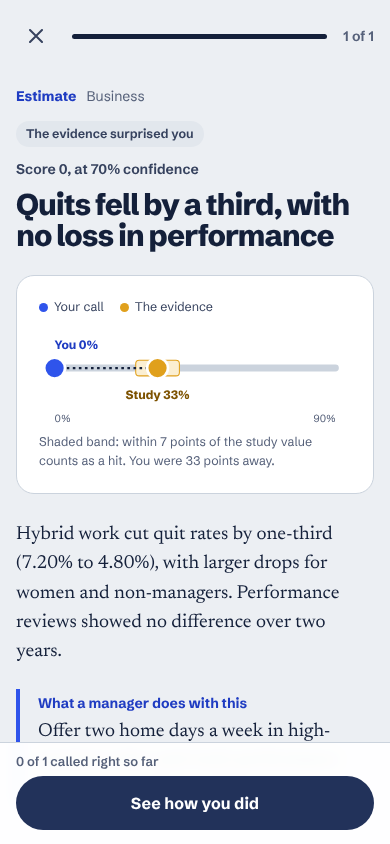
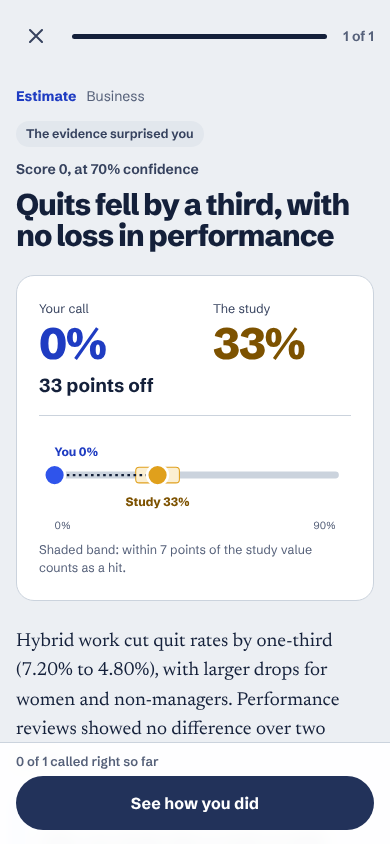
Iteration 15: numeric reveal head
Claude-Session: https://claude.ai/code/session_01Xbk2QxKBDV9apN9R2cwE5q

Changed region(s): [[0.0308, 0.3389, 0.8615, 0.8934], [0.8, 0.4929, 0.8615, 0.5237]]

diff --git a/index.html b/index.html
@@ -559,6 +559,15 @@ input[type=range].untouched::-moz-range-thumb{opacity:.4}
   .reveal .reveal-title{max-width:16ch}
   .focus:has(.reveal) .actionbar-in{max-width:1240px}
 }
+
+/* numeric reveal: the two numbers are the moment */
+.gap-head{display:grid;grid-template-columns:auto auto 1fr;align-items:end;gap:6px 36px;margin:2px 0 14px;padding-bottom:16px;border-bottom:1px solid var(--rule)}
+.gh-cell span{display:block;font-size:var(--t7);color:var(--ink-2);margin-bottom:4px}
+.gh-cell b{display:block;font-size:clamp(44px,4.6vw,68px);line-height:.95;font-weight:800;letter-spacing:-.04em}
+.gh-you{color:#1f3cc2}.gh-ev{color:#7d5200}
+.gh-gap{margin:0;justify-self:end;font-weight:700;font-size:var(--t4);color:var(--ink)}
+.gap:has(.gap-head) .gap-legend{display:none}
+@media (max-width:520px){.gap-head{grid-template-columns:1fr 1fr}.gh-gap{grid-column:1/-1;justify-self:start}}
 </style></head>
 <body>
 <header class="bar"><div class="bar-in"><a class="brand" href="#" data-home="1" aria-label="The Human Variable, home"><span id="brand-glyph"></span>The Human Variable</a>
@@ -996,8 +1005,8 @@ function gapAxis({ min, max, unit = '%', you, ev, band, evLabel = 'Evidence', id
 
 function gapFigure(c, rec) {
   const r = rec.response; let body = '', cap = '';
-  if (c.format === 'estimate') { const e = c.estimate; body = gapAxis({ min: e.min, max: e.max, unit: e.unit ?? '%', you: r, ev: e.target, band: e.tolerance, evLabel: 'Study' }); const u = (e.unit ?? '%') === '%' ? ' points' : e.unit; cap = `Shaded band: within ${e.tolerance}${u} of the study value counts as a hit. You were ${rec.detail.gap}${u} away.` }
-  else if (c.format === 'forecast') { body = `<p class="gap-claim">“${esc(c.forecast.claim)}”</p>` + gapAxis({ min: 0, max: 100, you: r, ev: c.forecast.truth ? 100 : 0, evText: c.forecast.truth ? 'Claim true' : 'Claim false', fmt: x => x + '%' }); cap = `A confident correct call earns 100, saying 50% earns 50, and a confident miss goes below zero.` }
+  if (c.format === 'estimate') { const e = c.estimate; const u = (e.unit ?? '%') === '%' ? ' points' : e.unit, f = x => x + (e.unit ?? '%'); body = gapHead(f(r), f(e.target), rec.detail.gap <= e.tolerance ? 'Inside the band' : `${rec.detail.gap}${u} off`) + gapAxis({ min: e.min, max: e.max, unit: e.unit ?? '%', you: r, ev: e.target, band: e.tolerance, evLabel: 'Study' }); cap = `Shaded band: within ${e.tolerance}${u} of the study value counts as a hit.` }
+  else if (c.format === 'forecast') { body = gapHead(r + '%', c.forecast.truth ? 'True' : 'False', `Score ${pct(rec.score)}`, 'You gave it', 'The claim') + `<p class="gap-claim">“${esc(c.forecast.claim)}”</p>` + gapAxis({ min: 0, max: 100, you: r, ev: c.forecast.truth ? 100 : 0, evText: c.forecast.truth ? 'Claim true' : 'Claim false', fmt: x => x + '%' }); cap = `A confident correct call earns 100, saying 50% earns 50, and a confident miss goes below zero.` }
   else if (c.format === 'rank') {
     const truth = c.rankAnswer, ties = c.rankTies || [];
     const tied = (a, b) => ties.some(t => t.includes(a) && t.includes(b));
@@ -1016,6 +1025,10 @@ function gapFigure(c, rec) {
   else if (c.chart) { body = bars(c.chart); cap = c.chart.note }
   else { body = `<p class="big-stat">${rec.correct ? 'Match' : rec.score > 0 ? 'Partial' : 'Miss'}</p>`; cap = 'Blue marks your call, amber the evidence, in the options on the left.' }
   return `<figure class="gap" aria-labelledby="gap-h"><figcaption class="sr-only" id="gap-h">Your call against the evidence</figcaption>${c.format === 'allocate' ? '<div class="gap-legend" aria-hidden="true"><span><i class="dot dot-you"></i>Your points</span><span><span class="tag tag-ev">Worked best</span> marks the study’s answer</span></div>' : c.chart && ['choice', 'causal', 'multi'].includes(c.format) ? '<div class="gap-legend" aria-hidden="true"><span>Study results</span><span><i class="dot dot-ev"></i>The result the question asks about</span></div>' : '<div class="gap-legend" aria-hidden="true"><span><i class="dot dot-you"></i>Your call</span><span><i class="dot dot-ev"></i>The evidence</span></div>'}${['choice', 'causal', 'multi'].includes(c.format) && !c.chart ? instrument(c) : body}<p class="gap-caption">${['choice', 'causal', 'multi'].includes(c.format) && !c.chart ? 'Blue marks your call, amber the evidence.' : cap}</p>${['choice', 'causal', 'multi'].includes(c.format) && c.chart ? `<div class="opts-recap">${instrument(c)}</div>` : ''}</figure>`;
+}
+// The signature moment of a numeric reveal: your number against the study's, large, with the gap between them.
+function gapHead(you, ev, gap, youLab = 'Your call', evLab = 'The study') {
+  return `<div class="gap-head"><div class="gh-cell"><span>${esc(youLab)}</span><b class="num gh-you">${esc(you)}</b></div><div class="gh-cell"><span>${esc(evLab)}</span><b class="num gh-ev">${esc(ev)}</b></div><p class="gh-gap">${esc(gap)}</p></div>`;
 }
 function short(s, n) { s = String(s); return s.length > n ? s.slice(0, n - 1) + '…' : s }
 function bars(ch) {

diff --git a/src/app.js b/src/app.js
@@ -269,8 +269,8 @@ function gapAxis({ min, max, unit = '%', you, ev, band, evLabel = 'Evidence', id
 
 function gapFigure(c, rec) {
   const r = rec.response; let body = '', cap = '';
-  if (c.format === 'estimate') { const e = c.estimate; body = gapAxis({ min: e.min, max: e.max, unit: e.unit ?? '%', you: r, ev: e.target, band: e.tolerance, evLabel: 'Study' }); const u = (e.unit ?? '%') === '%' ? ' points' : e.unit; cap = `Shaded band: within ${e.tolerance}${u} of the study value counts as a hit. You were ${rec.detail.gap}${u} away.` }
-  else if (c.format === 'forecast') { body = `<p class="gap-claim">“${esc(c.forecast.claim)}”</p>` + gapAxis({ min: 0, max: 100, you: r, ev: c.forecast.truth ? 100 : 0, evText: c.forecast.truth ? 'Claim true' : 'Claim false', fmt: x => x + '%' }); cap = `A confident correct call earns 100, saying 50% earns 50, and a confident miss goes below zero.` }
+  if (c.format === 'estimate') { const e = c.estimate; const u = (e.unit ?? '%') === '%' ? ' points' : e.unit, f = x => x + (e.unit ?? '%'); body = gapHead(f(r), f(e.target), rec.detail.gap <= e.tolerance ? 'Inside the band' : `${rec.detail.gap}${u} off`) + gapAxis({ min: e.min, max: e.max, unit: e.unit ?? '%', you: r, ev: e.target, band: e.tolerance, evLabel: 'Study' }); cap = `Shaded band: within ${e.tolerance}${u} of the study value counts as a hit.` }
+  else if (c.format === 'forecast') { body = gapHead(r + '%', c.forecast.truth ? 'True' : 'False', `Score ${pct(rec.score)}`, 'You gave it', 'The claim') + `<p class="gap-claim">“${esc(c.forecast.claim)}”</p>` + gapAxis({ min: 0, max: 100, you: r, ev: c.forecast.truth ? 100 : 0, evText: c.forecast.truth ? 'Claim true' : 'Claim false', fmt: x => x + '%' }); cap = `A confident correct call earns 100, saying 50% earns 50, and a confident miss goes below zero.` }
   else if (c.format === 'rank') {
     const truth = c.rankAnswer, ties = c.rankTies || [];
     const tied = (a, b) => ties.some(t => t.includes(a) && t.includes(b));
@@ -289,6 +289,10 @@ function gapFigure(c, rec) {
   else if (c.chart) { body = bars(c.chart); cap = c.chart.note }
   else { body = `<p class="big-stat">${rec.correct ? 'Match' : rec.score > 0 ? 'Partial' : 'Miss'}</p>`; cap = 'Blue marks your call, amber the evidence, in the options on the left.' }
   return `<figure class="gap" aria-labelledby="gap-h"><figcaption class="sr-only" id="gap-h">Your call against the evidence</figcaption>${c.format === 'allocate' ? '<div class="gap-legend" aria-hidden="true"><span><i class="dot dot-you"></i>Your points</span><span><span class="tag tag-ev">Worked best</span> marks the study’s answer</span></div>' : c.chart && ['choice', 'causal', 'multi'].includes(c.format) ? '<div class="gap-legend" aria-hidden="true"><span>Study results</span><span><i class="dot dot-ev"></i>The result the question asks about</span></div>' : '<div class="gap-legend" aria-hidden="true"><span><i class="dot dot-you"></i>Your call</span><span><i class="dot dot-ev"></i>The evidence</span></div>'}${['choice', 'causal', 'multi'].includes(c.format) && !c.chart ? instrument(c) : body}<p class="gap-caption">${['choice', 'causal', 'multi'].includes(c.format) && !c.chart ? 'Blue marks your call, amber the evidence.' : cap}</p>${['choice', 'causal', 'multi'].includes(c.format) && c.chart ? `<div class="opts-recap">${instrument(c)}</div>` : ''}</figure>`;
+}
+// The signature moment of a numeric reveal: your number against the study's, large, with the gap between them.
+function gapHead(you, ev, gap, youLab = 'Your call', evLab = 'The study') {
+  return `<div class="gap-head"><div class="gh-cell"><span>${esc(youLab)}</span><b class="num gh-you">${esc(you)}</b></div><div class="gh-cell"><span>${esc(evLab)}</span><b class="num gh-ev">${esc(ev)}</b></div><p class="gh-gap">${esc(gap)}</p></div>`;
 }
 function short(s, n) { s = String(s); return s.length > n ? s.slice(0, n - 1) + '…' : s }
 function bars(ch) {

diff --git a/classroom.html b/classroom.html
@@ -559,6 +559,15 @@ input[type=range].untouched::-moz-range-thumb{opacity:.4}
   .reveal .reveal-title{max-width:16ch}
   .focus:has(.reveal) .actionbar-in{max-width:1240px}
 }
+
+/* numeric reveal: the two numbers are the moment */
+.gap-head{display:grid;grid-template-columns:auto auto 1fr;align-items:end;gap:6px 36px;margin:2px 0 14px;padding-bottom:16px;border-bottom:1px solid var(--rule)}
+.gh-cell span{display:block;font-size:var(--t7);color:var(--ink-2);margin-bottom:4px}
+.gh-cell b{display:block;font-size:clamp(44px,4.6vw,68px);line-height:.95;font-weight:800;letter-spacing:-.04em}
+.gh-you{color:#1f3cc2}.gh-ev{color:#7d5200}
+.gh-gap{margin:0;justify-self:end;font-weight:700;font-size:var(--t4);color:var(--ink)}
+.gap:has(.gap-head) .gap-legend{display:none}
+@media (max-width:520px){.gap-head{grid-template-columns:1fr 1fr}.gh-gap{grid-column:1/-1;justify-self:start}}
 /* Instructor console additions */
 .field{height:46px;border:1px solid var(--rule);border-radius:var(--r-ctl);padding:0 12px;background:var(--surface)}
 .join-banner{display:flex;align-items:center;justify-content:space-between;gap:24px;padding:18px 24px}

diff --git a/src/app.css b/src/app.css
@@ -557,3 +557,12 @@ input[type=range].untouched::-moz-range-thumb{opacity:.4}
   .reveal .reveal-title{max-width:16ch}
   .focus:has(.reveal) .actionbar-in{max-width:1240px}
 }
+
+/* numeric reveal: the two numbers are the moment */
+.gap-head{display:grid;grid-template-columns:auto auto 1fr;align-items:end;gap:6px 36px;margin:2px 0 14px;padding-bottom:16px;border-bottom:1px solid var(--rule)}
+.gh-cell span{display:block;font-size:var(--t7);color:var(--ink-2);margin-bottom:4px}
+.gh-cell b{display:block;font-size:clamp(44px,4.6vw,68px);line-height:.95;font-weight:800;letter-spacing:-.04em}
+.gh-you{color:#1f3cc2}.gh-ev{color:#7d5200}
+.gh-gap{margin:0;justify-self:end;font-weight:700;font-size:var(--t4);color:var(--ink)}
+.gap:has(.gap-head) .gap-legend{display:none}
+@media (max-width:520px){.gap-head{grid-template-columns:1fr 1fr}.gh-gap{grid-column:1/-1;justify-self:start}}

diff --git a/qa/LOOP_LEDGER.md b/qa/LOOP_LEDGER.md
@@ -349,7 +349,7 @@ The lenses: MBA student (M), executive (E), behavioral scientist (S), learning s
 **Fixes:**
 - **M1.** The skill headline pools first and rescales once (mean raw score against mean baseline), so one confident forecast miss no longer erases a round of right calls. Recent calls are labelled as decision scores before the chance adjustment.
 - **M2.** The tutor request carries the client id in a header and the per-client limit keys on it, so a class behind one network address is not throttled. Test: 30 tutor requests from one address all answered.
-- **Minors.** dimant-enforcers is a forecast on the contrast the paper tests (norm information raised reporting of inequity-creating bribes), not a rank with untested cross-cell pairs; axe01 offers only the two routes the studies compared; bz01 quotes come only from the version of record; opioid26 lists Dimant among its authors and the Dimant count reads full author lists (18 decisions, 15 papers); null and absolute distractors replaced with rival claims in bz12, bz14, biz03, biz05; the tutor stays on the decision on screen unless the question names another study, answers design questions from the study record, maps junior and senior to experience, and no longer reads "experiment" as a pilot question; projector bars scale to the room size or 100% and show "2 of 3"; the projector exit sits beside the QR code; record reads in two columns (calibration beside recent calls and areas) and has an empty state; unknown `?play=` links say so; provenance links to third-party re-hosts and working-paper PDFs removed (5 sources) with a gate; social13, ai12, meta-perception copy.
+- **Minors.** dimant-enforcers is a forecast on the contrast the paper tests (norm information raised reporting of inequity-creating bribes), not a rank with untested cross-cell pairs; axe01 offers only the two routes the studies compared; bz01 quotes come only from the version of record; opioid26 lists Dimant among its authors and the Dimant count reads full author lists (18 decisions, 15 papers); null and absolute distractors replaced with rival claims in bz12, bz14, biz03, biz05; the tutor stays on the decision on screen unless the question names another study, answers design questions from the study record, maps junior and senior to experience, and no longer reads "experiment" as a pilot question; projector bars scale to the room size or 100% and show "2 of 3"; the projector exit sits beside the QR code; estimate and forecast reveals open with your number against the study's, large, and the gap between them; record reads in two columns (calibration beside recent calls and areas) and has an empty state; unknown `?play=` links say so; provenance links to third-party re-hosts and working-paper PDFs removed (5 sources) with a gate; social13, ai12, meta-perception copy.
 
 **Gates:** build check, 209 tests, audit doc, counts and screenshots regenerated.
 
